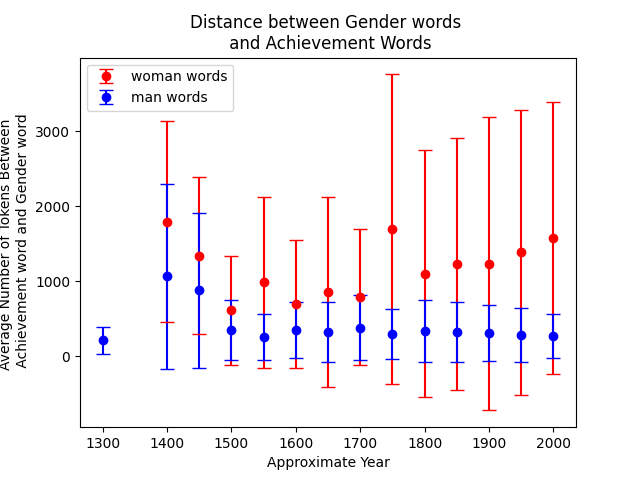
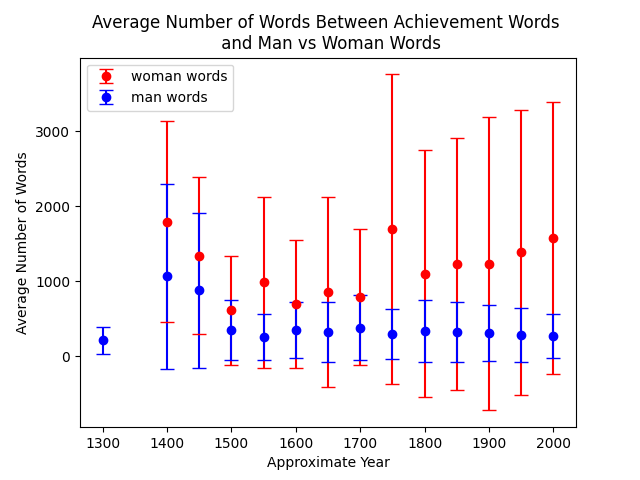
final achievement distance plots

Changed region(s): [[0.125, 0.0312, 0.875, 0.125], [0.0, 0.25, 0.0625, 0.7812]]

diff --git a/achievement_dist.py b/achievement_dist.py
@@ -46,6 +46,13 @@ for file in os.listdir(os.fsencode(textbook_chronological_dir)):
                          woman_dists[year].append(abs(woman_index - achievement_index))
      print("finished one file")
 
+woman_all_dists = []
+man_all_dists = []
+for year in woman_dists:
+    woman_all_dists = np.concatenate((np.array(woman_dists[year]), np.array(woman_all_dists)), axis = 0)
+    man_all_dists = np.concatenate((np.array(man_dists[year]), np.array(man_all_dists)), axis = 0)
+print(np.mean(woman_all_dists))
+print(np.mean(man_all_dists))
 
 # Make mean-standard error plot
 all_years = [x for x in range(1300,2050,50)]
@@ -70,8 +77,8 @@ for year in woman_dists:
 plt.errorbar(woman_years_se, woman_dists_se, yerr=woman_errors_se, fmt='o', label='woman words', color='r', capsize=5)
 plt.errorbar(man_years_se, man_dists_se, yerr=man_errors_se, fmt='o', label='man words', color='b', capsize=5)
 plt.xlabel('Approximate Year')
-plt.ylabel('Average Number of Tokens Between \n Achievement word and Gender word')
-plt.title('Distance between Gender words \n and Achievement Words')
+plt.ylabel('Average Number of Words')
+plt.title('Average Number of Words Between Achievement Words \n and Man vs Woman Words')
 plt.legend()
 plt.savefig("achievement_dist.png")
 plt.close()
